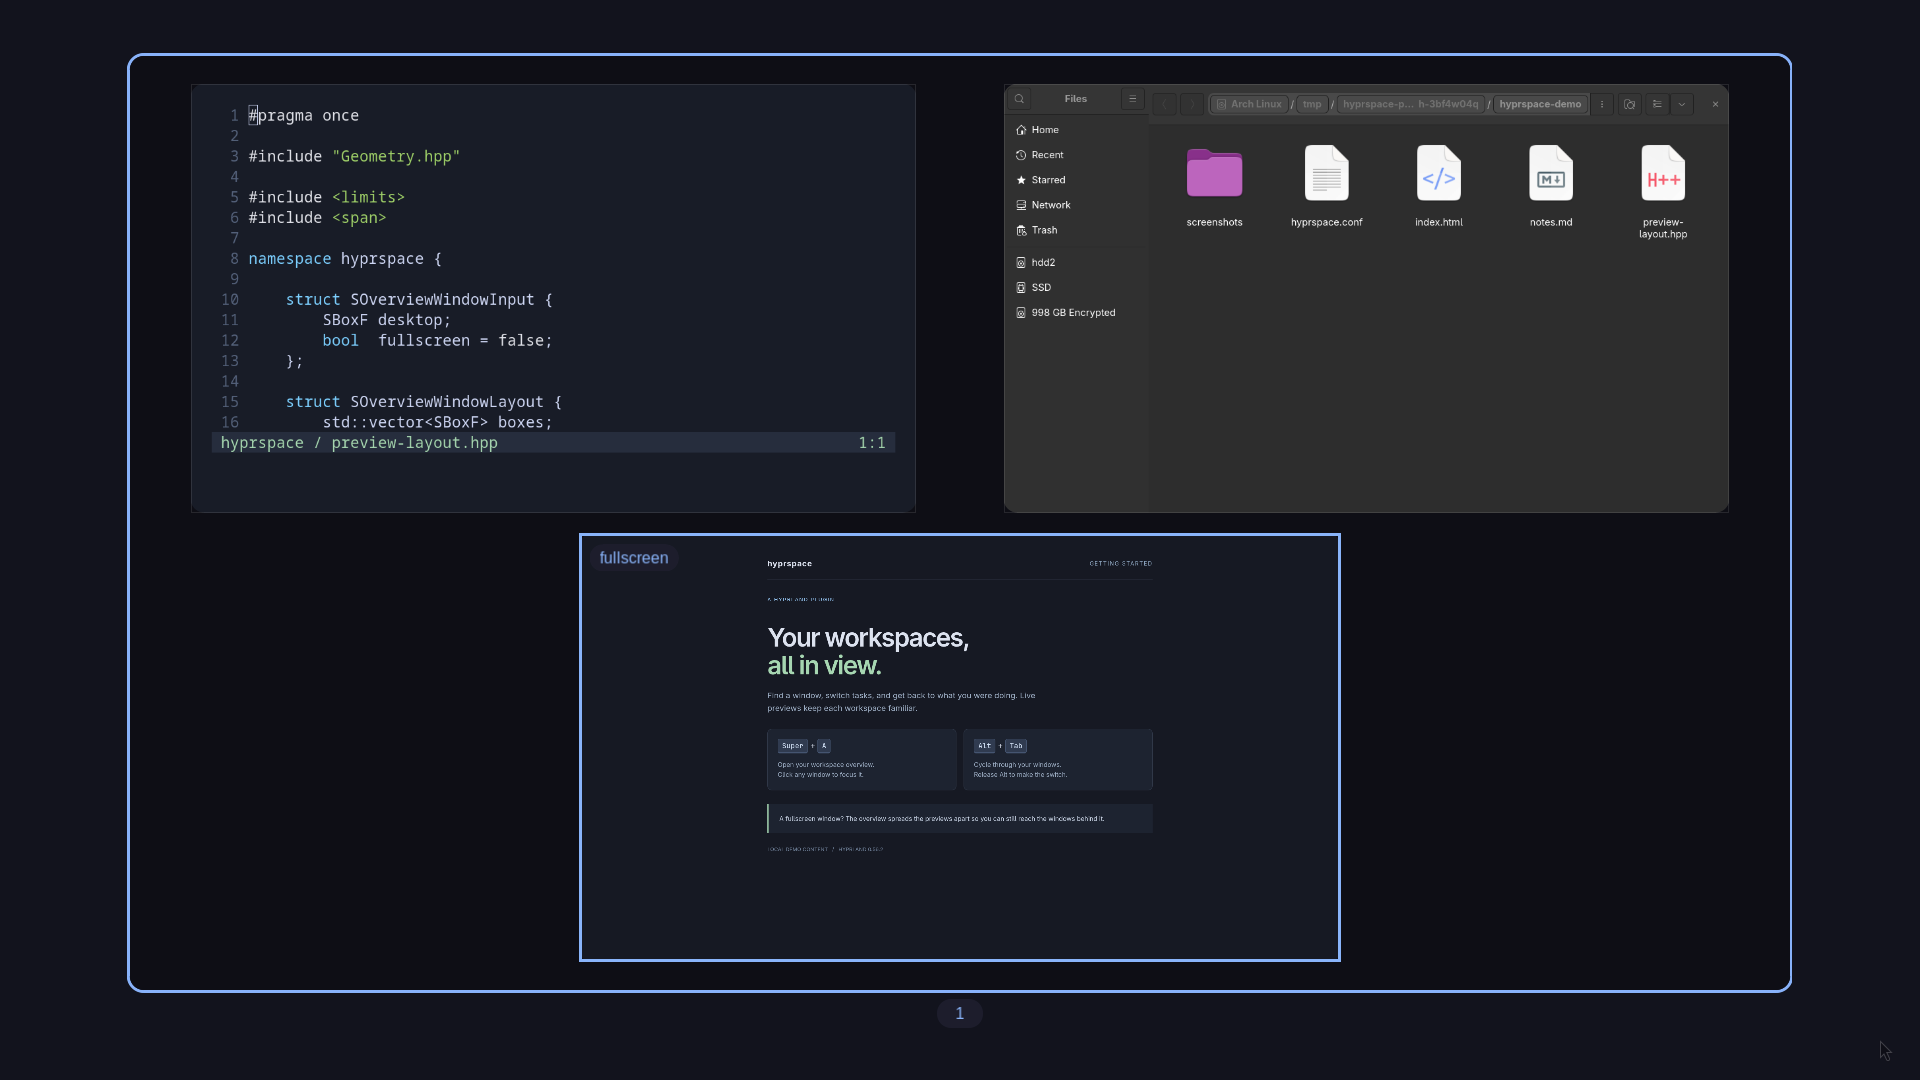
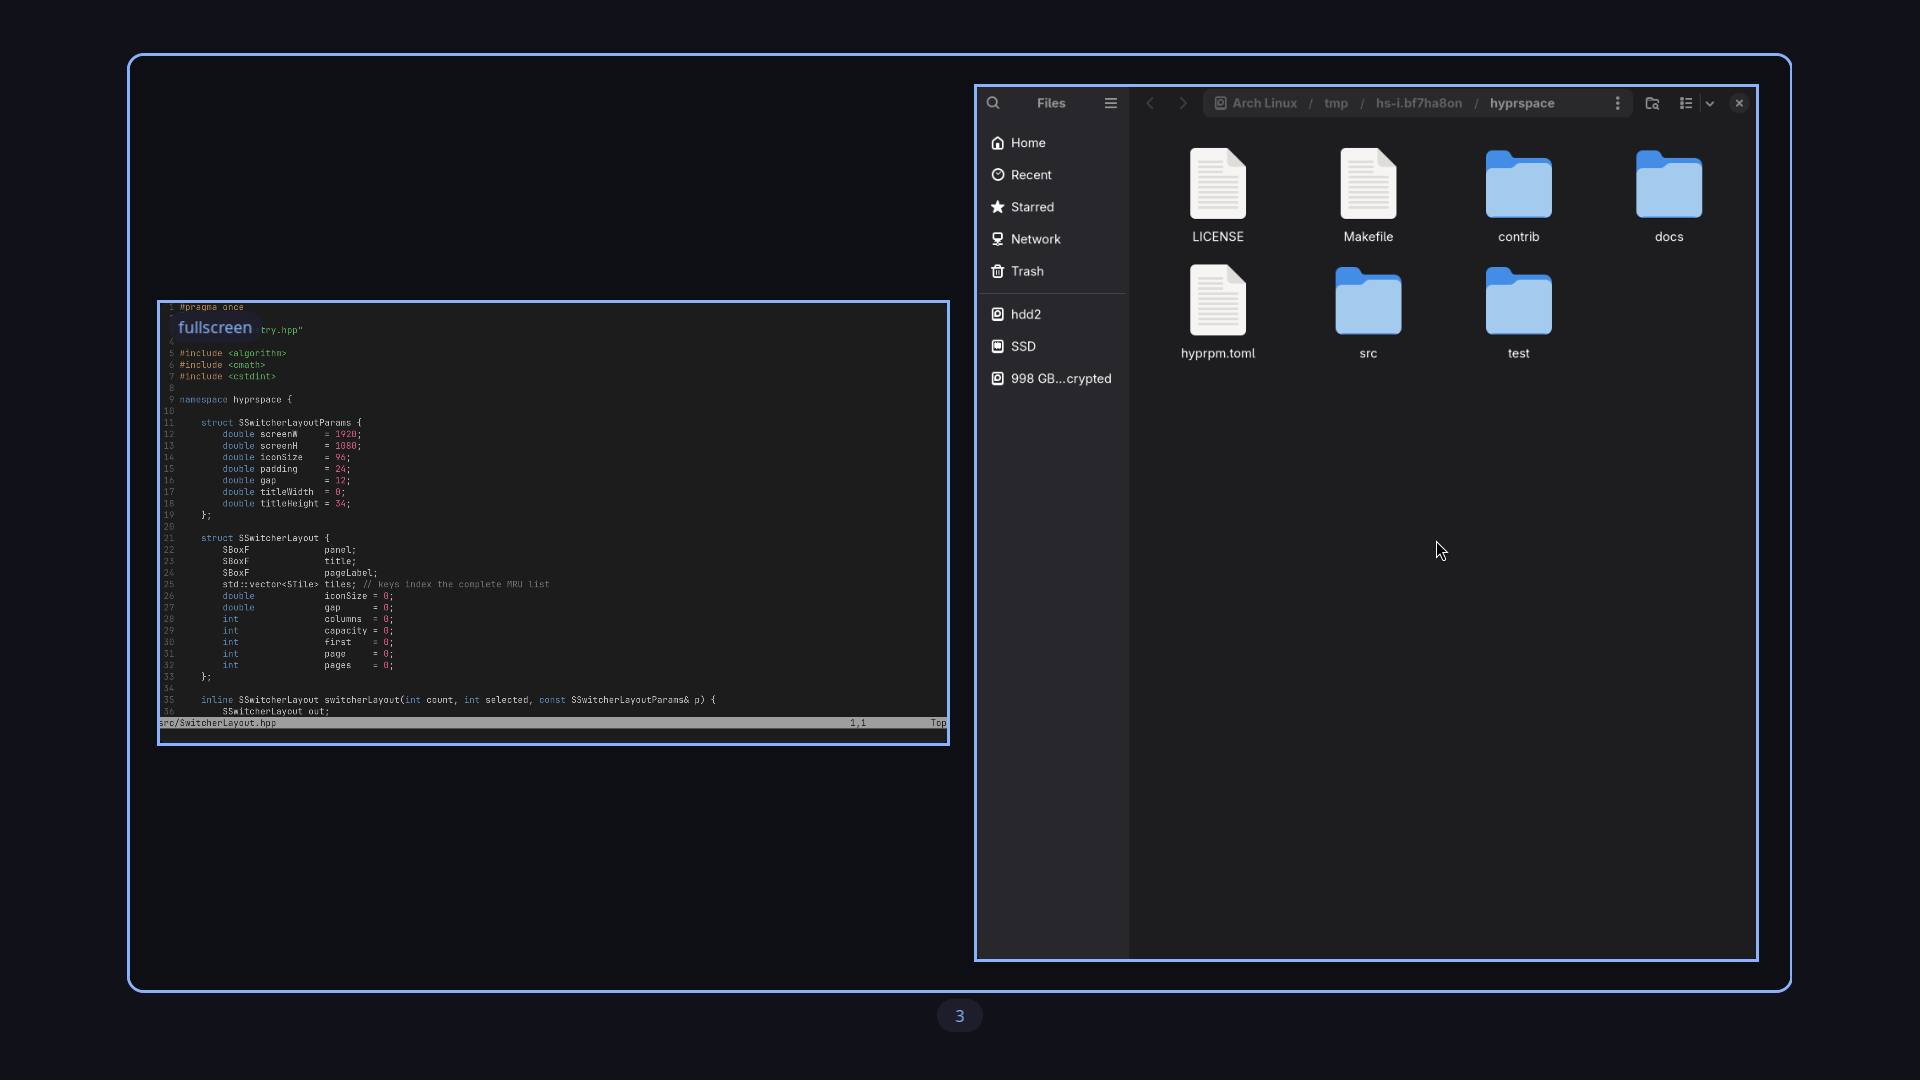
docs(images): replace the demo webpage
Capture Neovim and Files in a private Hyprland session and remove
the local landing page. Keep the original screenshot pixels.

diff --git a/docs/screenshots/README.md b/docs/screenshots/README.md
@@ -1,22 +1,20 @@
 # Screenshots
 
 The overview, fullscreen and switcher PNGs were captured with `grim` from
-hyprspace running in a separate Hyprland 0.56.2 session on 2026-09-05. They show
-real plugin rendering with local demo content. The overview images are
-1920 x 1080; the switcher image is a 1060 x 500 region captured around the panel.
-The images have no added labels
-or composited interface elements.
+hyprspace running in a private background Hyprland 0.56.2 session on 2026-09-08.
+They show Neovim and Files with this repository's source and configuration.
+The overview images are 1920 x 1080; the switcher image is a 1060 x 500 region captured around the panel.
+The images have no added labels or composited interface elements.
 
 | File | Content |
 |---|---|
-| [overview.png](overview.png) | Three workspaces with source code, notes and build checks |
-| [fullscreen.png](fullscreen.png) | A fullscreen Chromium window, Ghostty with Neovim, and Files on one workspace |
+| [overview.png](overview.png) | Three workspaces with source code, bindings and a file browser |
+| [fullscreen.png](fullscreen.png) | Fullscreen Neovim in Ghostty alongside Files on one workspace |
 | [switcher.png](switcher.png) | App icons and the selected window title |
 | [scrolling-controls.png](scrolling-controls.png) | Scrolling columns with edge arrows and the Page Up/Page Down hint |
 
-The browser displays [demo.html](demo.html), which uses local HTML and CSS
-without external assets. The editor displays this repository's source and
-configuration. Files displays a temporary folder containing those demo files.
+Files displays a temporary folder containing copies of the project files.
+Neovim displays the switcher layout, bindings, regression test and Makefile.
 
 The scrolling image was captured on 2026-09-06 during the isolated Hyprland
 0.56.2 integration suite. It keeps the original 960 x 600 pixels and shows
@@ -25,8 +23,8 @@ disposable GTK test windows without personal content.
 ## Capture replacements
 
 Use an isolated Hyprland session with the plugin loaded and a 1920 x 1080
-output at scale 1. Populate it with demo files and a browser profile that has no
-personal accounts. Keep the plugin's default colors, spacing and font sizes.
+output at scale 1. Populate it with copies of project files in Neovim and Files.
+Keep the plugin's default colors, spacing and font sizes.
 The sample session used 18 px desktop gaps, 2 px borders and 10 px rounding.
 
 Run these commands from a terminal belonging to that session:
@@ -39,9 +37,8 @@ hyprctl dispatch hyprspace:close
 ```
 
 Use the output name reported by `hyprctl monitors`. For the fullscreen image,
-first make the browser fullscreen on a workspace with other windows, wait for
-its fullscreen notification to disappear, then open the overview. For the
-switcher, run `hyprctl dispatch hyprspace:switch` and capture its region with
+first make Neovim fullscreen on a workspace with other windows, dismiss any
+startup notification, then open the overview. For the switcher, run `hyprctl dispatch hyprspace:switch` and capture its region with
 `grim -g '430,290 1060x500' switcher.png`. Dismiss it with `hyprspace:close`.
 
 Check each image for private titles, notifications and paths before replacing

diff --git a/README.md b/README.md
@@ -130,7 +130,7 @@ In a scrolling workspace, use the wheel or two-finger scrolling to pan its previ
 Edge arrows reveal hidden columns. Page Up/Page Down select columns and Enter
 opens the selection; Tab/Shift+Tab still move between workspaces.
 
-![A fullscreen browser alongside the other windows on its workspace](docs/screenshots/fullscreen.png)
+![Fullscreen Neovim alongside Files on its workspace](docs/screenshots/fullscreen.png)
 
 Fullscreen and maximized windows keep their desktop state while you browse the
 overview. Their badges show which windows are using those modes.
